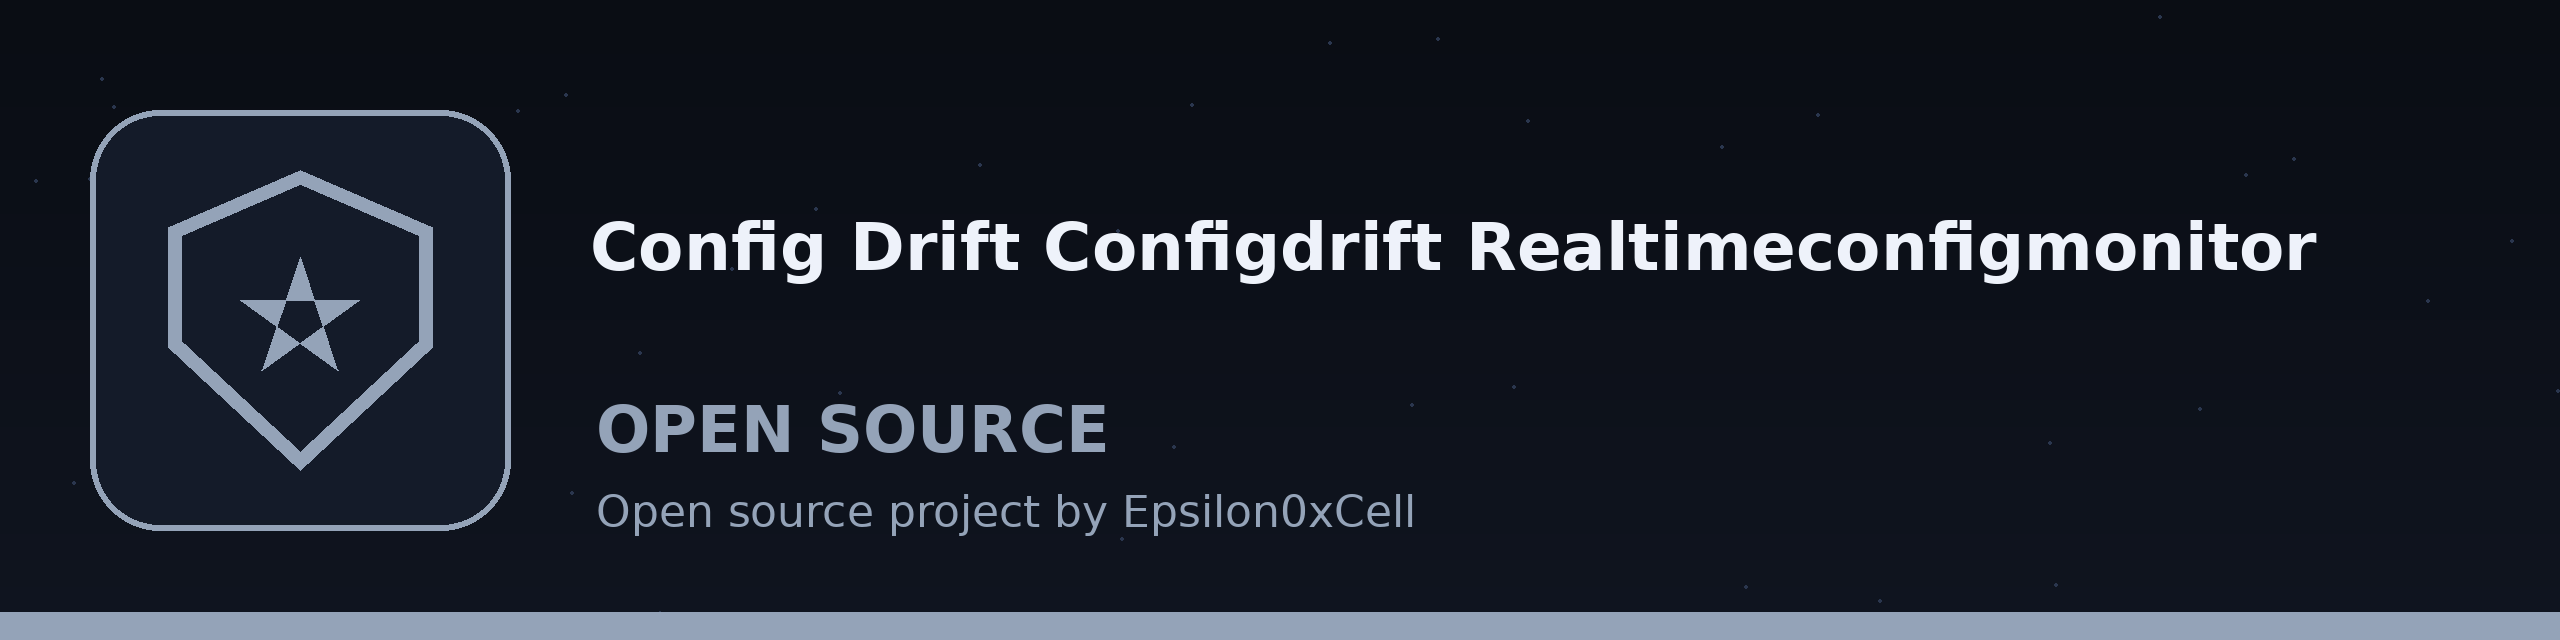
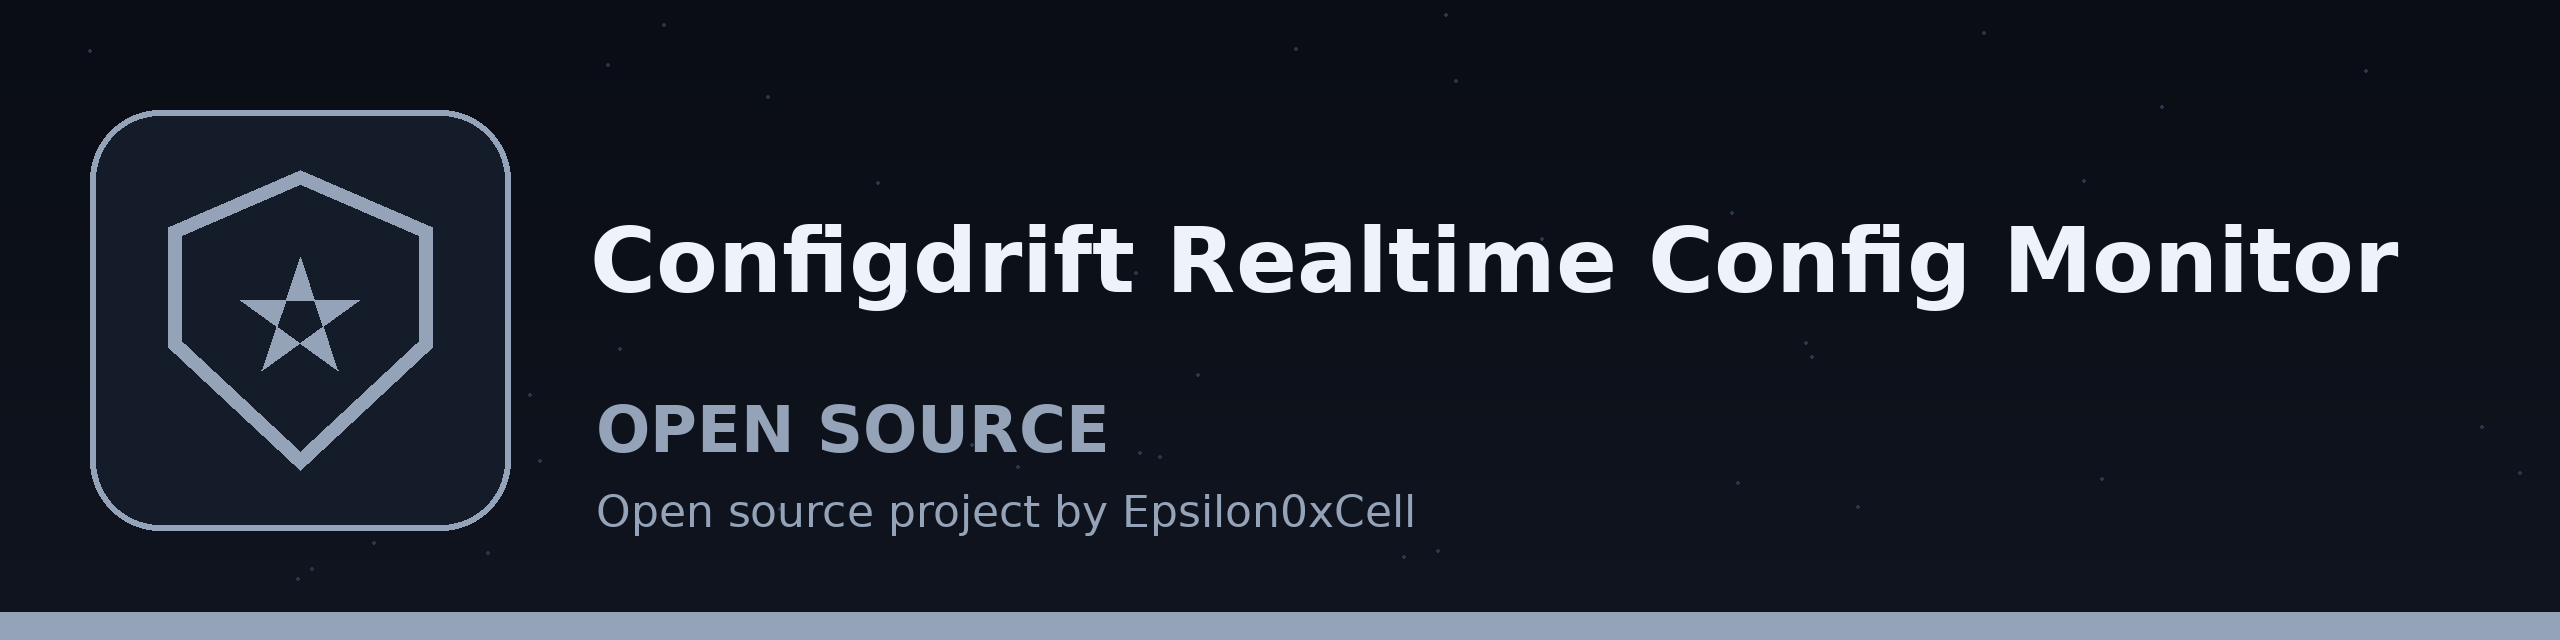
Update branding and README title for rename to configdrift-realtime-config-monitor

Changed region(s): [[0.2188, 0.3438, 0.9375, 0.5]]

diff --git a/README.md b/README.md
@@ -1,13 +1,13 @@
 ![Banner](banner.png)
 
-# config-drift-configdrift-RealtimeConfigMonitor
+# configdrift-realtime-config-monitor
 A tool that monitors system configuration files in real-time and alerts on any unexpected changes, using file system events (e.g., via `watchdog`). - Focused on Detects unauthorized or unexpected changes to system configurations. Compares current configuration files against known good baselines and reports any deviations. Supports version control integration for historical analysis and rollback.
 
 ## Install
-`git clone https://github.com/ShadowStrikeHQ/config-drift-configdrift-realtimeconfigmonitor`
+`git clone https://github.com/ShadowStrikeHQ/configdrift-realtime-config-monitor`
 
 ## Usage
-`./config-drift-configdrift-realtimeconfigmonitor [params]`
+`./configdrift-realtime-config-monitor [params]`
 
 ## Parameters
 - `-h`: Show help message and exit
